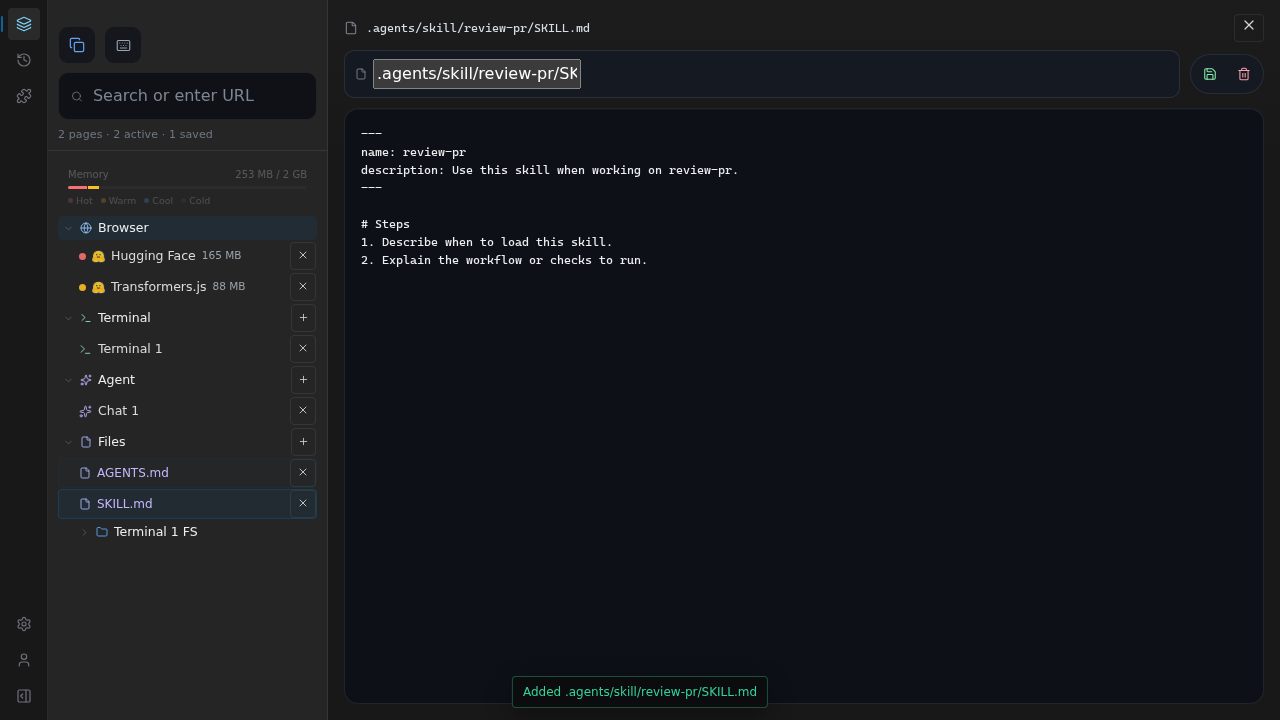
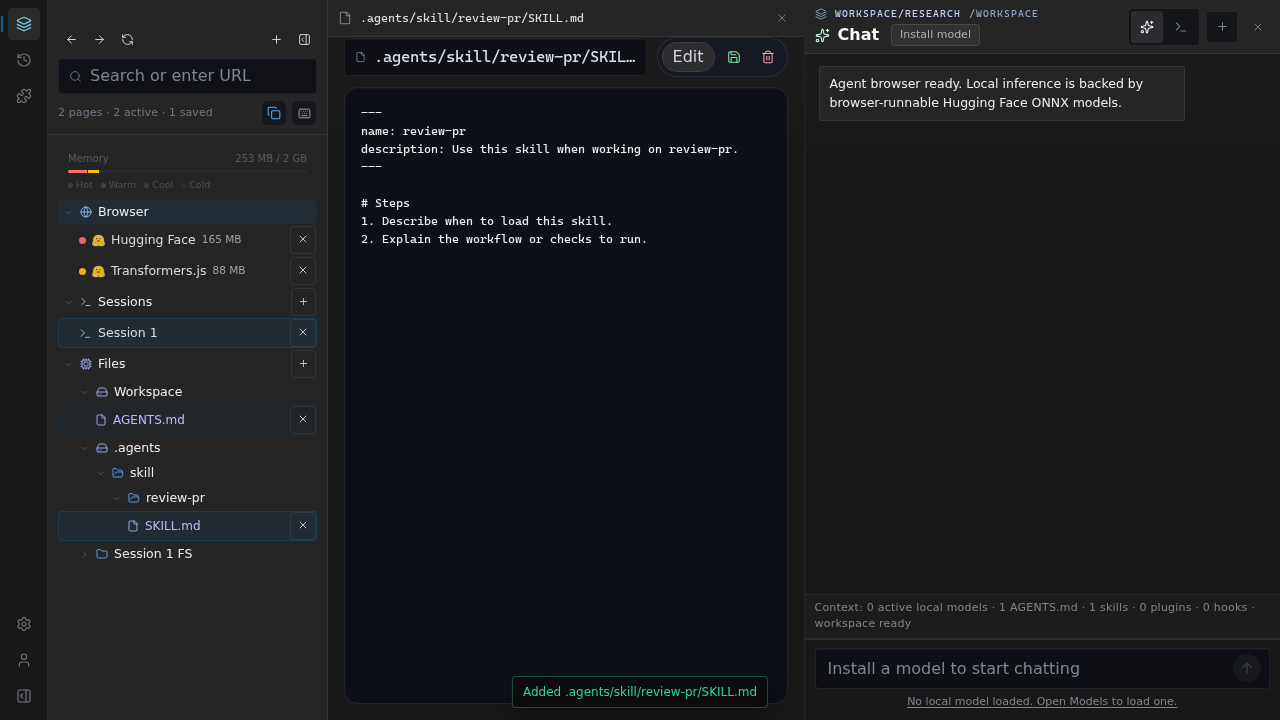
feat: enhance virtual filesystem with workspace drives and terminal mounts, update documentation and tests

diff --git a/agent-browser/src/App.tsx b/agent-browser/src/App.tsx
@@ -22,6 +22,7 @@ import {
   Folder,
   FolderOpen,
   Globe,
+  HardDrive,
   History,
   Keyboard,
   Layers3,
@@ -61,6 +62,7 @@ import {
   WORKSPACE_FILES_STORAGE_KEY,
   WORKSPACE_FILE_STORAGE_DEBOUNCE_MS,
 } from './services/workspaceFiles';
+import { buildMountedTerminalDriveNodes, buildWorkspaceCapabilityDriveNodes } from './services/virtualFilesystemTree';
 import { createUniqueId } from './utils/uniqueId';
 import type { ChatMessage, HFModel, HistorySession, NodeKind, TreeNode, WorkspaceCapabilities, WorkspaceFile, WorkspaceFileKind } from './types';
 
@@ -289,6 +291,7 @@ const icons = {
   keyboard: Keyboard,
   folder: Folder,
   folderOpen: FolderOpen,
+  hardDrive: HardDrive,
   file: File,
   x: X,
   send: SendHorizontal,
@@ -342,7 +345,7 @@ function createInitialRoot(): TreeNode {
 
 function Icon({ name, size = 16, color = 'currentColor', className = '' }: { name: keyof typeof icons; size?: number; color?: string; className?: string }) {
   const IconComponent: LucideIcon = icons[name];
-  return <IconComponent size={size} color={color} className={className} aria-hidden="true" strokeWidth={1.8} />;
+  return <IconComponent size={size} color={color} className={className} aria-hidden="true" strokeWidth={1.8} data-icon={name} />;
 }
 
 function Favicon({ url, size = 14 }: { url?: string; size?: number }) {
@@ -500,26 +503,6 @@ function workspaceViewStateEquals(left: WorkspaceViewState, right: WorkspaceView
     && left.activeMode === right.activeMode
     && left.activeSessionIds.length === right.activeSessionIds.length
     && left.activeSessionIds.every((id, index) => id === right.activeSessionIds[index]);
-}
-
-function createVirtualFsTreeNodes(prefix: string, paths: string[]): TreeNode[] {
-  const root: TreeNode = { id: `${prefix}:root`, name: 'root', type: 'folder', expanded: true, children: [] };
-  for (const path of paths) {
-    const clean = path.replace(/^\/+/, '');
-    if (!clean) continue;
-    const parts = clean.split('/').filter(Boolean);
-    let cursor = root;
-    for (const [index, part] of parts.entries()) {
-      const nodeId = `${prefix}:${parts.slice(0, index + 1).join('/')}`;
-      let next = (cursor.children ?? []).find((child) => child.id === nodeId);
-      if (!next) {
-        next = { id: nodeId, name: part, type: 'folder', expanded: false };
-        cursor.children = [...(cursor.children ?? []), next];
-      }
-      cursor = next;
-    }
-  }
-  return root.children ?? [];
 }
 
 function buildWorkspaceNodeMap(root: TreeNode): Map<string, string> {
@@ -1697,8 +1680,8 @@ function SidebarTree({ root, workspaceByNodeId, activeWorkspaceId, openTabIds, a
                   {isWorkspace && node.persisted ? <span className="persist-badge" title="Persisted" aria-label="Persisted workspace">📌</span> : null}
                   {node.nodeKind === 'browser' ? <Icon name="globe" size={12} color="#93c5fd" /> : null}
                   {node.nodeKind === 'session' ? <Icon name="terminal" size={12} color="#86efac" /> : null}
-                  {node.nodeKind === 'files' ? <Icon name="file" size={12} color="#a5b4fc" /> : null}
-                  {!node.nodeKind ? <Icon name={node.expanded ? 'folderOpen' : 'folder'} size={isWorkspace ? 13 : 12} color={isWorkspace && node.activeMemory ? '#34d399' : node.color ?? '#60a5fa'} /> : null}
+                  {node.nodeKind === 'files' ? <Icon name="cpu" size={12} color="#a5b4fc" /> : null}
+                  {!node.nodeKind ? <Icon name={node.isDrive ? 'hardDrive' : node.expanded ? 'folderOpen' : 'folder'} size={isWorkspace ? 13 : 12} color={node.isDrive ? '#a5b4fc' : isWorkspace && node.activeMemory ? '#34d399' : node.color ?? '#60a5fa'} /> : null}
                 </>
               ) : (
                 <>
@@ -1946,12 +1929,7 @@ function AgentBrowserApp() {
         if (ws.type !== 'workspace') return ws;
         const normalizedWorkspace = ensureWorkspaceCategories(ws);
         const files = workspaceFilesByWorkspace[ws.id] ?? [];
-        const fileNodes: TreeNode[] = files.map((f) => ({
-          id: `file:${ws.id}:${f.path}`,
-          name: f.path.split('/').pop() ?? f.path,
-          type: 'file' as const,
-          filePath: f.path,
-        }));
+        const fileNodes = buildWorkspaceCapabilityDriveNodes(`file:${ws.id}`, files);
         const sessionCategory = getWorkspaceCategory(normalizedWorkspace, 'session');
         const terminalFsNodes: TreeNode[] = (sessionCategory?.children ?? [])
           .filter((child) => child.type === 'tab' && child.nodeKind === 'session')
@@ -1960,7 +1938,7 @@ function AgentBrowserApp() {
             name: `${terminalNode.name} FS`,
             type: 'folder',
             expanded: false,
-            children: createVirtualFsTreeNodes(`vfs:${ws.id}:${terminalNode.id}`, terminalFsPathsBySession[terminalNode.id] ?? []),
+            children: buildMountedTerminalDriveNodes(`vfs:${ws.id}:${terminalNode.id}`, terminalFsPathsBySession[terminalNode.id] ?? []),
           }));
         const nextChildren = (normalizedWorkspace.children ?? []).map((child) => child.nodeKind === 'files'
           ? { ...child, children: [...fileNodes, ...terminalFsNodes] }

diff --git a/agent-browser/src/services/virtualFilesystemTree.ts b/agent-browser/src/services/virtualFilesystemTree.ts
@@ -1,0 +1,117 @@
+import type { TreeNode, WorkspaceFile } from '../types';
+
+export const WORKSPACE_DRIVE_NAME = 'Workspace';
+
+type TerminalBranchNode = TreeNode & { children: TreeNode[] };
+type WorkspaceBranchNode = TreeNode & { children: TreeNode[] };
+
+function createFolderNode(id: string, name: string, isDrive = false): TreeNode {
+  return {
+    id,
+    name,
+    type: 'folder',
+    isDrive,
+    expanded: true,
+    children: [],
+  };
+}
+
+function displayDriveName(segment: string): string {
+  return segment === 'workspace' ? WORKSPACE_DRIVE_NAME : segment;
+}
+
+function driveSortRank(name: string): number {
+  return name === WORKSPACE_DRIVE_NAME ? 0 : 1;
+}
+
+function ensureChildFolder(parent: TreeNode, id: string, name: string): WorkspaceBranchNode {
+  const existing = (parent.children ?? []).find((child) => child.id === id);
+  if (existing) return existing as WorkspaceBranchNode;
+  const next = createFolderNode(id, name);
+  parent.children = [...(parent.children ?? []), next];
+  return next as WorkspaceBranchNode;
+}
+
+function sortTreeNodes(nodes: TreeNode[] | undefined): TreeNode[] {
+  const children = (nodes ?? []).map((node) => node.children?.length
+    ? { ...node, children: sortTreeNodes(node.children) }
+    : node);
+  return [...children].sort((left, right) => {
+    if (left.type !== right.type) return left.type === 'folder' ? -1 : 1;
+    return left.name.localeCompare(right.name);
+  });
+}
+
+export function buildWorkspaceCapabilityDriveNodes(prefix: string, files: WorkspaceFile[]): TreeNode[] {
+  const workspaceDrive = createFolderNode(`${prefix}:drive:workspace`, WORKSPACE_DRIVE_NAME, true);
+  const directoryDrives = new Map<string, TreeNode>();
+
+  for (const file of files) {
+    const segments = file.path.split('/').filter(Boolean);
+    if (!segments.length) continue;
+    if (segments.length === 1) {
+      workspaceDrive.children = [
+        ...(workspaceDrive.children ?? []),
+        { id: `${prefix}:workspace:${file.path}`, name: segments[0], type: 'file', filePath: file.path },
+      ];
+      continue;
+    }
+
+    const [driveSegment, ...rest] = segments;
+    const driveId = `${prefix}:drive:${driveSegment}`;
+    const drive = directoryDrives.get(driveSegment) ?? createFolderNode(driveId, displayDriveName(driveSegment), true);
+    if (!directoryDrives.has(driveSegment)) directoryDrives.set(driveSegment, drive);
+
+    let cursor = drive as WorkspaceBranchNode;
+    for (const [index, part] of rest.entries()) {
+      const isLeaf = index === rest.length - 1;
+      if (isLeaf) {
+        cursor.children = [
+          ...(cursor.children ?? []),
+          { id: `${driveId}:${rest.slice(0, index + 1).join('/')}`, name: part, type: 'file', filePath: file.path },
+        ];
+        continue;
+      }
+      cursor = ensureChildFolder(cursor, `${driveId}:${rest.slice(0, index + 1).join('/')}`, part);
+    }
+  }
+
+  return [
+    { ...workspaceDrive, children: sortTreeNodes(workspaceDrive.children) },
+    ...[...directoryDrives.values()]
+      .map((drive) => ({ ...drive, children: sortTreeNodes(drive.children) }))
+      .sort((left, right) => left.name.localeCompare(right.name)),
+  ];
+}
+
+export function buildMountedTerminalDriveNodes(prefix: string, paths: string[]): TreeNode[] {
+  const drives = new Map<string, TreeNode>();
+
+  for (const rawPath of paths) {
+    const segments = rawPath.replace(/^\/+/, '').split('/').filter(Boolean);
+    if (!segments.length) continue;
+
+    const [driveSegment, ...rest] = segments;
+    const driveId = `${prefix}:drive:${driveSegment}`;
+    const drive = drives.get(driveSegment) ?? createFolderNode(driveId, displayDriveName(driveSegment), true);
+    if (!drives.has(driveSegment)) drives.set(driveSegment, drive);
+    if (!rest.length) continue;
+
+    let cursor = drive as TerminalBranchNode;
+    for (const [index, part] of rest.entries()) {
+      const nodeId = `${driveId}:${rest.slice(0, index + 1).join('/')}`;
+      const existing = (cursor.children ?? []).find((child) => child.id === nodeId);
+      if (existing) {
+        cursor = existing as TerminalBranchNode;
+        continue;
+      }
+      const next = createFolderNode(nodeId, part);
+      cursor.children = [...(cursor.children ?? []), next];
+      cursor = next as TerminalBranchNode;
+    }
+  }
+
+  return [...drives.values()]
+    .map((drive) => ({ ...drive, children: sortTreeNodes(drive.children) }))
+    .sort((left, right) => driveSortRank(left.name) - driveSortRank(right.name) || left.name.localeCompare(right.name));
+}

diff --git a/agent-browser/src/services/virtualFilesystemTree.test.ts b/agent-browser/src/services/virtualFilesystemTree.test.ts
@@ -1,0 +1,91 @@
+import { describe, expect, it } from 'vitest';
+import type { WorkspaceFile } from '../types';
+import {
+  WORKSPACE_DRIVE_NAME,
+  buildMountedTerminalDriveNodes,
+  buildWorkspaceCapabilityDriveNodes,
+} from './virtualFilesystemTree';
+
+describe('virtualFilesystemTree', () => {
+  it('mounts workspace root files under a workspace drive and top-level directories as separate drives', () => {
+    const files: WorkspaceFile[] = [
+      { path: 'AGENTS.md', content: '# Rules', updatedAt: '2026-04-15T00:00:00.000Z' },
+      { path: '.agents/skill/review-pr/SKILL.md', content: '---\nname: review-pr\n---', updatedAt: '2026-04-15T00:00:00.000Z' },
+      { path: 'docs/plan.md', content: '# Plan', updatedAt: '2026-04-15T00:00:00.000Z' },
+    ];
+
+    const drives = buildWorkspaceCapabilityDriveNodes('file:ws-research', files);
+
+    expect(drives.map((node) => ({ name: node.name, isDrive: node.isDrive }))).toEqual([
+      { name: WORKSPACE_DRIVE_NAME, isDrive: true },
+      { name: '.agents', isDrive: true },
+      { name: 'docs', isDrive: true },
+    ]);
+
+    expect(drives[0].children).toEqual([
+      expect.objectContaining({ name: 'AGENTS.md', type: 'file', filePath: 'AGENTS.md' }),
+    ]);
+
+    expect(drives[1].children).toEqual([
+      expect.objectContaining({
+        name: 'skill',
+        type: 'folder',
+        children: [
+          expect.objectContaining({
+            name: 'review-pr',
+            type: 'folder',
+            children: [
+              expect.objectContaining({ name: 'SKILL.md', type: 'file', filePath: '.agents/skill/review-pr/SKILL.md' }),
+            ],
+          }),
+        ],
+      }),
+    ]);
+  });
+
+  it('mounts top-level terminal directories as drives beneath each filesystem node', () => {
+    const drives = buildMountedTerminalDriveNodes('vfs:ws-research:terminal-2', [
+      '/workspace',
+      '/workspace/.keep',
+      '/workspace/notes.txt',
+      '/tmp/cache',
+    ]);
+
+    expect(drives.map((node) => ({ name: node.name, isDrive: node.isDrive }))).toEqual([
+      { name: WORKSPACE_DRIVE_NAME, isDrive: true },
+      { name: 'tmp', isDrive: true },
+    ]);
+
+    expect(drives[0].children).toEqual(expect.arrayContaining([
+      expect.objectContaining({ name: '.keep', type: 'folder' }),
+      expect.objectContaining({ name: 'notes.txt', type: 'folder' }),
+    ]));
+    expect(drives[1].children).toEqual([
+      expect.objectContaining({ name: 'cache', type: 'folder' }),
+    ]);
+  });
+
+  it('reuses existing terminal folders and keeps the workspace drive first', () => {
+    const drives = buildMountedTerminalDriveNodes('vfs:ws-research:terminal-3', [
+      '/',
+      '/tmp/cache/a.txt',
+      '/workspace/notes.txt',
+      '/tmp/cache/b.txt',
+    ]);
+
+    expect(drives.map((node) => node.name)).toEqual([
+      WORKSPACE_DRIVE_NAME,
+      'tmp',
+    ]);
+    expect(drives[1].children).toEqual([
+      expect.objectContaining({
+        name: 'cache',
+        type: 'folder',
+        children: expect.arrayContaining([
+          expect.objectContaining({ name: 'a.txt', type: 'folder' }),
+          expect.objectContaining({ name: 'b.txt', type: 'folder' }),
+        ]),
+      }),
+    ]);
+  });
+});

diff --git a/agent-browser/tests/app.spec.ts b/agent-browser/tests/app.spec.ts
@@ -64,12 +64,14 @@ test('captures the main workspace screen', async ({ page }) => {
   await expect(page.getByRole('dialog', { name: 'Add file' })).toBeVisible();
   await page.getByRole('button', { name: 'AGENTS.md' }).click();
   // AGENTS.md should appear in the tree and open in the file editor
-  await expect(page.getByLabel('Workspace file path')).toHaveValue('AGENTS.md');
+  await expect(page.getByRole('region', { name: 'File editor' }).getByText('AGENTS.md').first()).toBeVisible();
   // Add a skill
   await page.getByLabel('Add file to Research').click();
   await page.getByLabel('Capability name').fill('review-pr');
   await page.getByRole('button', { name: 'Skill' }).click();
-  await expect(page.getByLabel('Workspace file path')).toHaveValue('.agents/skill/review-pr/SKILL.md');
+  await expect(page.getByRole('region', { name: 'File editor' }).getByText('SKILL.md').first()).toBeVisible();
+  await expect(page.getByRole('button', { name: 'Workspace', exact: true })).toBeVisible();
+  await expect(page.getByRole('button', { name: '.agents', exact: true })).toBeVisible();
   assertNoRuntimeErrors();
   await page.screenshot({ path: 'docs/screenshots/workspace-screen.png', fullPage: true });
 });
@@ -130,6 +132,8 @@ test('captures categorized worktree with agent and terminal instances', async ({
   await expect(page.getByLabel('Bash input')).toBeEnabled({ timeout: 10000 });
 
   await expect(page.getByRole('button', { name: /Session 2 FS/ }).first()).toBeVisible();
+  await page.getByRole('button', { name: /Session 2 FS/ }).first().click();
+  await expect(page.getByRole('button', { name: 'Workspace', exact: true })).toHaveCount(2);
 
   assertNoRuntimeErrors();
   await page.screenshot({ path: 'docs/screenshots/worktree-categories.png', fullPage: true });

diff --git a/agent-browser/src/App.test.tsx b/agent-browser/src/App.test.tsx
@@ -91,6 +91,38 @@ describe('App', () => {
     expect(screen.getAllByRole('button', { name: 'Files' }).length).toBeGreaterThan(0);
   });
 
+  it('renders Files as a compute surface and mounts workspace directories as drives', async () => {
+    vi.useFakeTimers();
+    render(<App />);
+
+    await act(async () => {
+      vi.advanceTimersByTime(350);
+    });
+
+    const filesButton = screen.getAllByRole('button', { name: 'Files' })[0];
+    expect(filesButton.querySelector('[data-icon="cpu"]')).not.toBeNull();
+
+    fireEvent.click(screen.getByLabelText('Add file to Research'));
+    fireEvent.click(screen.getByRole('button', { name: 'AGENTS.md' }));
+
+    await act(async () => {
+      vi.advanceTimersByTime(150);
+    });
+
+    fireEvent.click(screen.getByLabelText('Add file to Research'));
+    fireEvent.change(screen.getByLabelText('Capability name'), { target: { value: 'review-pr' } });
+    fireEvent.click(screen.getByRole('button', { name: 'Skill' }));
+
+    await act(async () => {
+      vi.advanceTimersByTime(150);
+    });
+
+    expect(screen.getByRole('button', { name: 'Workspace' })).toBeInTheDocument();
+    expect(screen.getByRole('button', { name: '.agents' })).toBeInTheDocument();
+    expect(screen.getByText('AGENTS.md')).toBeInTheDocument();
+    expect(screen.getByText('SKILL.md')).toBeInTheDocument();
+  });
+
   it('supports creating new chat and terminal instances from the tree and panel', async () => {
     vi.useFakeTimers();
     render(<App />);

diff --git a/agent-browser/src/types/index.ts b/agent-browser/src/types/index.ts
@@ -13,6 +13,7 @@ export interface TreeNode {
   name: string;
   type: NodeType;
   nodeKind?: NodeKind;
+  isDrive?: boolean;
   children?: TreeNode[];
   expanded?: boolean;
   persisted?: boolean;

diff --git a/agent-browser/docs/features.md b/agent-browser/docs/features.md
@@ -7,7 +7,7 @@ Run `npx playwright test` from the `agent-browser/` directory to refresh them.
 
 - Local model installation and usage: Settings lets users search browser-runnable ONNX models, load them for local inference, and use installed models from the chat composer.
 - In-browser terminal with isolated filesystem: Terminal mode runs `just-bash` in the browser, with each terminal session using its own sandboxed in-memory filesystem.
-- Virtual filesystem per workspace: The Files category merges persisted workspace files with per-terminal filesystem trees so each workspace has its own virtual filesystem surface.
+- Virtual filesystem per workspace: The Files category renders as a compute surface, mounts workspace-root and top-level directories as drives, and merges persisted workspace files with per-terminal filesystem trees per workspace.
 - Workspace switching and creation: `Research` and `Build` are separate workspaces, and users can switch, cycle, rename, or create workspaces without losing workspace-scoped state.
 - Active document surfaces versus media surfaces: The prototype already opens browser tabs and workspace files as first-class content surfaces. In the broader product model, text-like docs are active or editable surfaces, while audio, PDF, DOCX, image, and video assets are viewer or playback surfaces rather than text editors.
 
@@ -27,7 +27,7 @@ How to interact:
 - The sidebar shows the **active workspace root** with its Browser, Terminal, Agent, and Files categories in a compact tree.
 - Click the workspace root or any category folder to expand or collapse that part of the tree.
 - Click a tab in the active workspace to open it as a page overlay.
-- Click the **+** button next to the active workspace to add files (AGENTS.md, skill, plugin, hook) directly into the tree.
+- Click the **+** button next to the active workspace to add files (AGENTS.md, skill, plugin, hook) directly into the mounted drives under Files.
 - Click a file node in the tree to open the **file editor** in the content area.
 - Use the omnibar to search or navigate.
 - Use the **workspace pill toggle** under the omnibar to open the workspace overlay.
